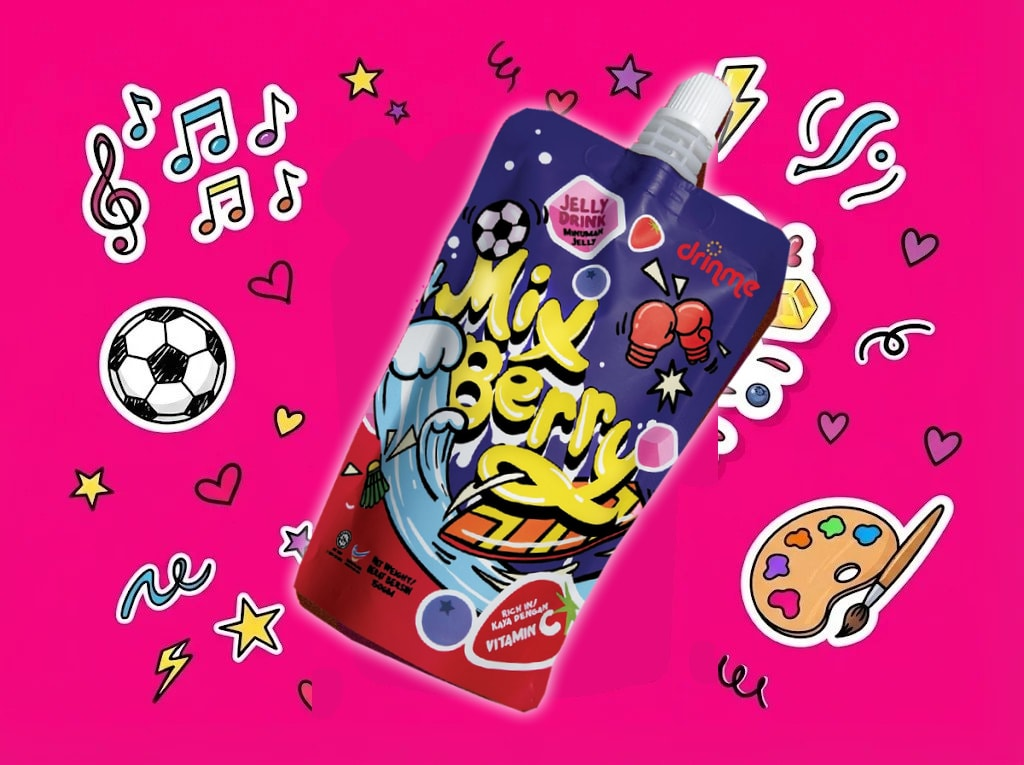
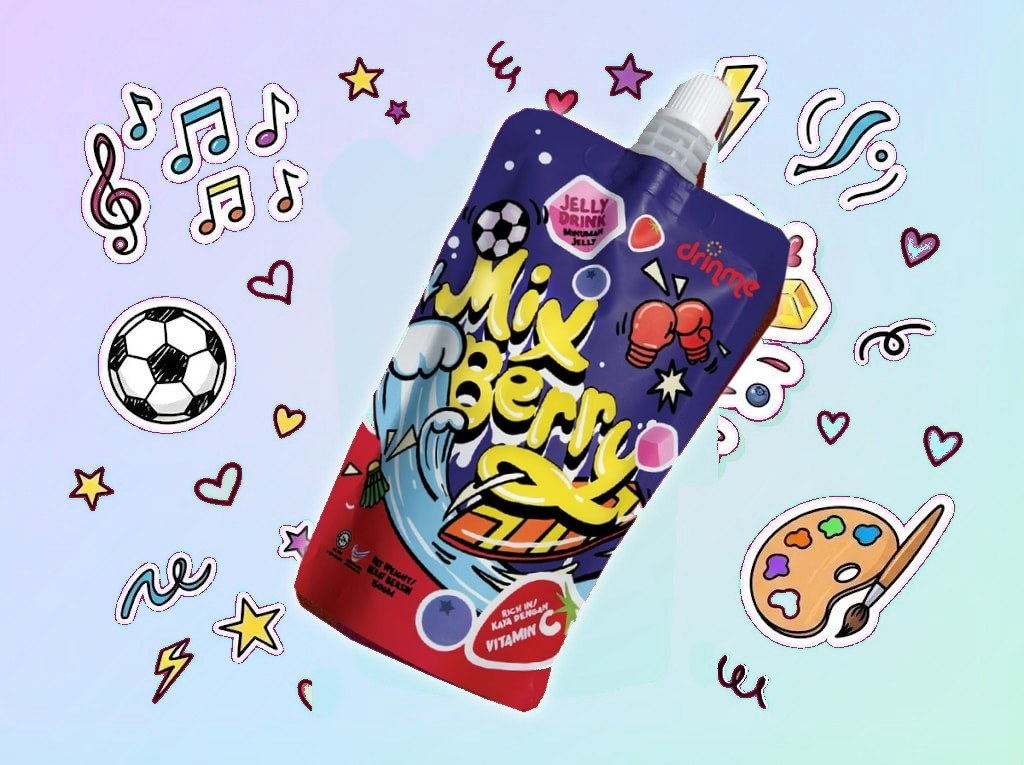
Nibou: Pop and play visual on a pastel lilac-sky-mint background

diff --git a/nibou/index.html b/nibou/index.html
@@ -111,7 +111,7 @@
       <p class="lead reveal">Six campaign ideas in the Nibou look: berry magenta, cream and fruit, starring the real Nibou products.</p>
       <div class="vgrid">
         <figure class="vfig tilt reveal"><img src="assets/concept/concept-1.jpg" alt="Freshill Concentrate bottles in lemon, mango and strawberry with a juice splash on magenta" loading="lazy"><figcaption>Fresh splash</figcaption></figure>
-        <figure class="vfig tilt reveal"><img src="assets/concept/concept-2.jpg" alt="Pop-art sticker scene with a Drinme Mix Berry jelly drink pouch, music, football and paint doodles" loading="lazy"><figcaption>Pop and play</figcaption></figure>
+        <figure class="vfig tilt reveal"><img src="assets/concept/concept-2.jpg?v=pastel" alt="Pop-art sticker scene with a Drinme Mix Berry jelly drink pouch, music, football and paint doodles" loading="lazy"><figcaption>Pop and play</figcaption></figure>
         <figure class="vfig tilt reveal"><img src="assets/concept/concept-3.jpg" alt="Dadih Soya Fruits Flavour Pudding packs with a spoonful of mango pudding and fruit" loading="lazy"><figcaption>Soft and juicy</figcaption></figure>
         <figure class="vfig tilt reveal"><img src="assets/concept/concept-4.jpg" alt="School lunchbox flat-lay with a Yourgurt Fruity Pudding pack, sandwich and fruit" loading="lazy"><figcaption>Lunchbox day</figcaption></figure>
         <figure class="vfig tilt reveal"><img src="assets/concept/concept-5.jpg" alt="Hari Raya table with ketupat, lantern, rose drinks, a bottle of Nibou Syrup Rose and a Kid's Joy drinking jelly pack" loading="lazy"><figcaption>Raya table</figcaption></figure>
